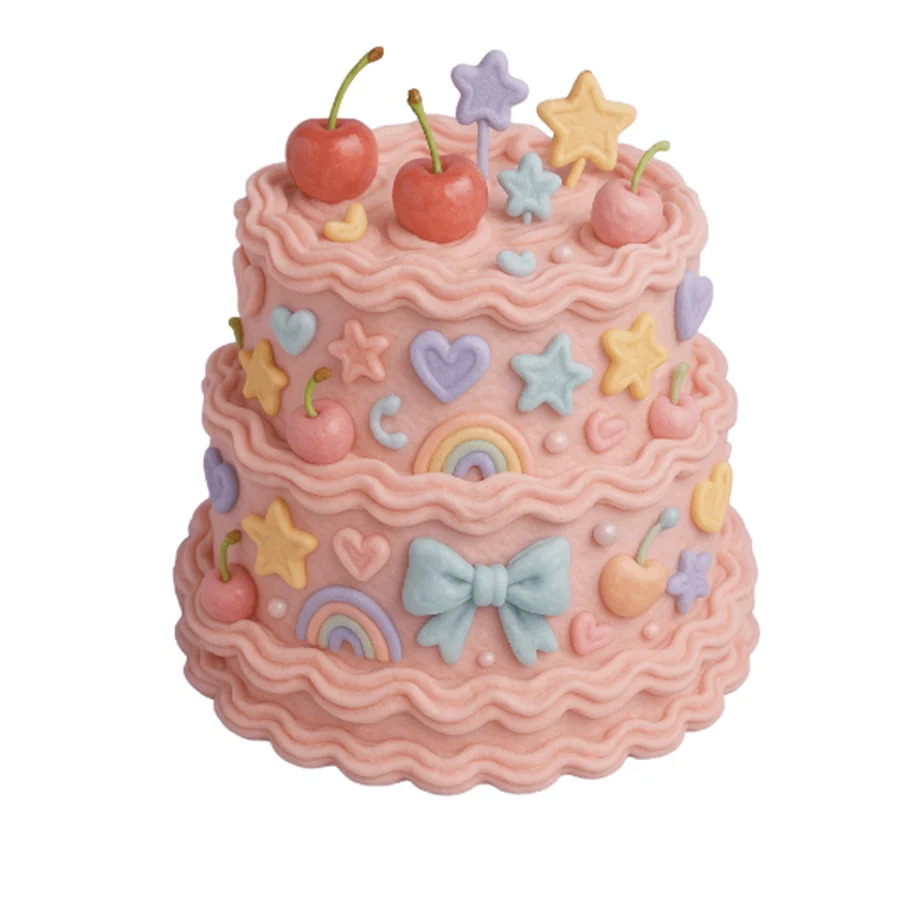
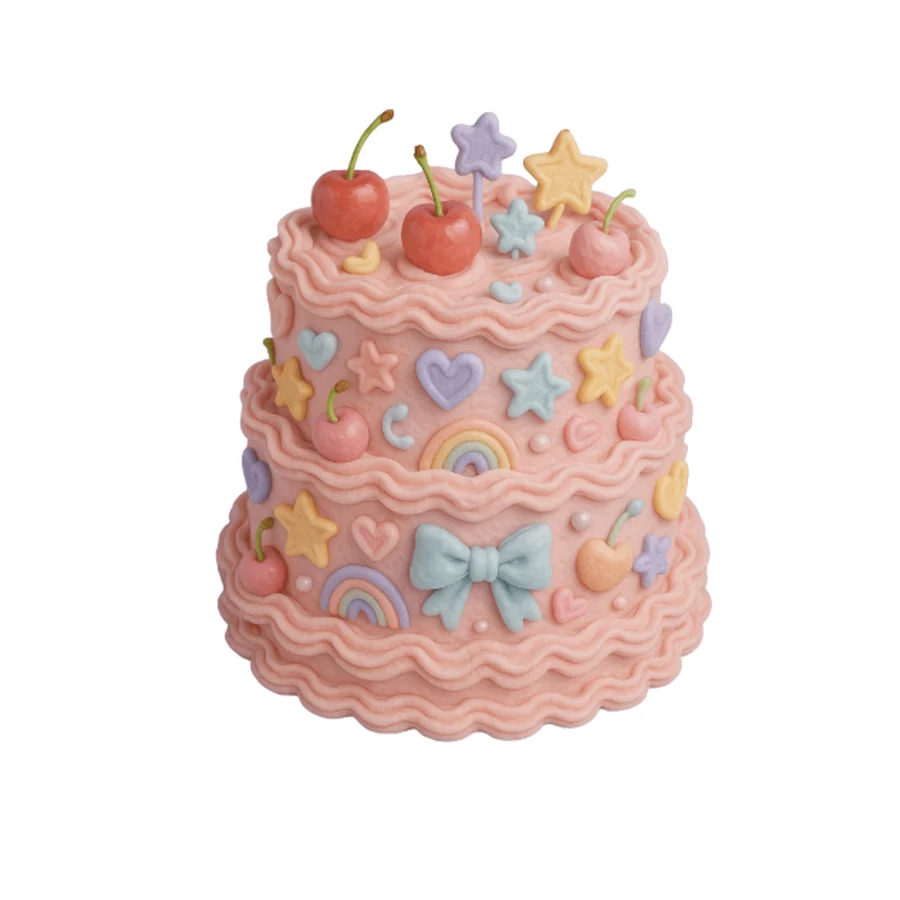
Add more breathing room to home hero cake

Changed region(s): [[0.1867, 0.0311, 0.8711, 0.9022]]

diff --git a/index.html b/index.html
@@ -49,8 +49,8 @@
         <div class="home-hero reveal">
           <div class="floating-cake-frame">
             <picture>
-              <source srcset="./assets/cake-hero.webp?v=20260604" type="image/webp" />
-              <img class="floating-cake" src="./assets/cake-hero.jpg?v=20260604" alt="체리 장식 핑크 2단 케이크" />
+              <source srcset="./assets/cake-hero.webp?v=20260604-roomy" type="image/webp" />
+              <img class="floating-cake" src="./assets/cake-hero.jpg?v=20260604-roomy" alt="체리 장식 핑크 2단 케이크" />
             </picture>
           </div>
           <span class="pill">PREMIUM CUSTOM SERVICE</span>

diff --git a/styles.css b/styles.css
@@ -196,7 +196,6 @@ textarea {
   height: 100%;
   object-fit: cover;
   object-position: center center;
-  transform: scale(1.12) translate(-1.5%, -4%);
 }
 
 @keyframes floatCake {